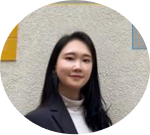
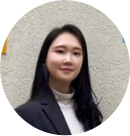
modify: contents

diff --git a/views/information/pledge.html b/views/information/pledge.html
@@ -6,7 +6,7 @@
                 <div class='section-box-03'>
                     <div class='left-box'>
                         <div class='candidate-box'>
-                            <img class='candidate-small' src='image/profile.png' alt='candidateImage'/>
+                            <img class='candidate-small' src='image/information1.png' alt='candidateImage'/>
                         </div>
                         <div class='font-jua'>
                             <p class='candidate-position'>정학생회장 후보</p>
@@ -14,7 +14,7 @@
                             <p class='candidate-small-major'>컴퓨터공학과(17)</p>
                         </div>
                         <div class='sns-box'>
-                            <a href='https://www.instagram.com/seoultech_cice'><img src='image/instagram.png'/></a>
+                            <a href='https://www.instagram.com/haeilhiiii_/'><img src='image/instagram.png'/></a>
                             <a href='https://www.facebook.com/seoultechcice'><img src='image/facebook.png'/></a>
                             <a class='anchor' href='https://www.youtube.com'><img src='image/youtube.png'/></a>
                         </div>
@@ -27,7 +27,7 @@
                     </div>
                     <div class='right-box'>
                         <div class='candidate-box'>
-                            <img class='candidate-small' src='image/profile.png' alt='candidateImage'/>
+                            <img class='candidate-small' src='image/information2.png' alt='candidateImage'/>
                         </div>
                         <div class='font-jua'>
                             <p class='candidate-position'>부학생회장 후보</p>

diff --git a/views/welfare/pledge.html b/views/welfare/pledge.html
@@ -14,7 +14,7 @@
                             <p class='candidate-small-major'>행정학과(19)</p>
                         </div>
                         <div class='sns-box'>
-                            <a href='https://www.instagram.com/36welfare_st/'><img src='image/instagram.png'/></a>
+                            <a href='https://www.instagram.com/37seoultech_for_rest/'><img src='image/instagram.png'/></a>
                             <a href='https://www.facebook.com/36welfare.st'><img src='image/facebook.png'/></a>
                             <a href='https://www.facebook.com/SeoulTechWelfare/'><img src='image/website.png'/></a>
                         </div>
@@ -35,7 +35,7 @@
                             <p class='candidate-small-major'>화공생명공학과(18)</p>
                         </div>
                         <div class='sns-box'>
-                            <a href='https://www.instagram.com/36welfare_st/'><img src='image/instagram.png'/></a>
+                            <a href='https://www.instagram.com/37seoultech_for_rest/'><img src='image/instagram.png'/></a>
                             <a href='https://www.facebook.com/36welfare.st'><img src='image/facebook.png'/></a>
                             <a href='https://www.facebook.com/SeoulTechWelfare/'><img src='image/website.png'/></a>
                         </div>

diff --git a/public/pledge.js b/public/pledge.js
@@ -4,20 +4,20 @@ const slideLen = slideSection.length; // slide length
 const slideWidth = 35; 
 const slideSpeed = 200; 
 const startNum = 0; 
-slideList.style.width = slideWidth * (slideLen + 2) + "rem";
+slideList.style.width = slideWidth * slideLen + "rem";
 let curIndex = startNum; 
 
 
 const slideBtnNext = document.getElementById('slideBtnNext');
 const slideBtnPrev = document.getElementById('slideBtnPrev');
 
+const slideBox = document.getElementsByClassName('slide-box');
+
 const nextSlide = function() {
     if (curIndex < slideLen - 1) {
         slideList.style.transition = slideSpeed + "ms";
         slideList.style.transform = `translate3d(-${slideWidth * (curIndex+1)}rem, 0px, 0px)`;
-
         curIndex++;
-
     }
 }
 
@@ -25,7 +25,6 @@ const prevSlide = function(){
     if (curIndex > 0) {
         slideList.style.transition = slideSpeed + "ms";
         slideList.style.transform = `translate3d(-${slideWidth * (curIndex-1)}rem, 0px, 0px)`;
-
         curIndex--;
     }
 };

diff --git a/views/welfare/pledgeLeft1.html b/views/welfare/pledgeLeft1.html
@@ -1,7 +1,10 @@
 
 <div class='pledge-small-box'>
-    <div class='pledge-title'><p>1) </p></div>
-    <div class='pledge-text'><pre>- PPT 및 보고서 양식 시즌별 제작 배부</pre></div>    
+    <div class='pledge-title'><p>1) PPT 및 보고서 양식 시즌별 제작 배부</p></div>
+    <div class='pledge-text'><pre>- 학교 로고 및 일러스트를 활용한 템플릿 및 보고서 양식 제작
+- 일회성에 그치지 않고 정기적 제작
+- 시즌별 템플릿 공개 선정 등의 방법 활용
+    </pre></div>    
     <div class='pledge-like-box'>
         {% if user.userId and condition.isLiked7 %}
         <img id='welfareLikeBtnLeft-01' class='pledge-like-btn-red' src='image/heartRed.png'>

diff --git a/views/welfare/pledgeLeft3.html b/views/welfare/pledgeLeft3.html
@@ -1,7 +1,7 @@
 
 <div class='pledge-small-box'>
-    <div class='pledge-title'><p>3) </p></div>
-    <div class='pledge-text'><pre>- 서울과학기술대학교 굿즈 KIT 제작 및 배부</pre></div>    
+    <div class='pledge-title'><p>3) 서울과학기술대학교 굿즈 KIT 제작 및 배부</p></div>
+    <div class='pledge-text'><pre>- 기존 다이어리 사업과 더불어 새로운 KIT 제작</pre></div>    
     <div class='pledge-like-box'>
         {% if user.userId and condition.isLiked9 %}
         <img id='welfareLikeBtnLeft-03' class='pledge-like-btn-red' src='image/heartRed.png'>

diff --git a/views/welfare/pledgeLeft2.html b/views/welfare/pledgeLeft2.html
@@ -1,7 +1,7 @@
 
 <div class='pledge-small-box'>
-    <div class='pledge-title'><p>2) </p></div>
-    <div class='pledge-text'><pre>- 분실물 관리 체계 네트워킹을 통한 일원화</pre></div>  
+    <div class='pledge-title'><p>2) 분실물 관리 체계 네트워킹을 통한 일원화</p></div>
+    <div class='pledge-text'><pre>- 교내 분실물 관리 체계 재정비 및 통합</pre></div>  
     <div class='pledge-like-box'>
         {% if user.userId and condition.isLiked8 %}
         <img id='welfareLikeBtnLeft-02' class='pledge-like-btn-red' src='image/heartRed.png'>

diff --git a/views/welfare/pledgeRight1.html b/views/welfare/pledgeRight1.html
@@ -1,7 +1,7 @@
 
 <div class='pledge-small-box'>
-    <div class='pledge-title'><p>4) </p></div>
-    <div class='pledge-text'><pre>- 지역사회와 협력한 대학생 재능 기부 프로젝트</pre></div>     
+    <div class='pledge-title'><p>4) 지역사회와 협력한 대학생 재능 기부 프로젝트</p></div>
+    <div class='pledge-text'><pre>- 상세 내용 없음</pre></div>     
     <div class='pledge-like-box'>
         {% if user.userId and condition.isLiked10 %}
         <img id='welfareLikeBtnRight-01' class='pledge-like-btn-red' src='image/heartRed.png'>

diff --git a/views/welfare/pledgeRight2.html b/views/welfare/pledgeRight2.html
@@ -1,7 +1,7 @@
 
 <div class='pledge-small-box'>
-    <div class='pledge-title'><p>5) </p></div>
-    <div class='pledge-text'><pre>- 더욱 진실된 제5회 S'TED 개최</pre></div>      
+    <div class='pledge-title'><p>5) 더욱 진실된 제5회 S'TED 개최</p></div>
+    <div class='pledge-text'><pre>- 상세 내용 없음</pre></div>      
     <div class='pledge-like-box'>
         {% if user.userId and condition.isLiked11 %}
         <img id='welfareLikeBtnRight-02' class='pledge-like-btn-red' src='image/heartRed.png'>

diff --git a/views/information/pledgeRight2.html b/views/information/pledgeRight2.html
@@ -2,7 +2,7 @@
 <div class='pledge-small-box'>
     <div class='pledge-title'><p>5) 간단한 한끼 자판기 설치</p></div>
     <div class='pledge-text'>
-        <pre>- 상세 내용 없음</pre>
+        <pre>- 미래관, 창학관 한끼 자판기 설치</pre>
     </div>    
     <div class='pledge-like-box'>
         {% if user.userId and condition.isLiked23 %}

diff --git a/views/information/pledgeRight1.html b/views/information/pledgeRight1.html
@@ -2,7 +2,8 @@
 <div class='pledge-small-box'>
     <div class='pledge-title'><p>4) 뻔선뻔후 or 멘토링</p></div>
     <div class='pledge-text'>
-        <pre>- 상세 내용 없음
+        <pre>- 학번을 이용한 뻔선뻔후 제도 도입
+- 멘토링 활동을 통한 학업능력의 향상
         </pre>
     </div>    
     <div class='pledge-like-box'>

diff --git a/public/main.css b/public/main.css
@@ -810,6 +810,7 @@ button:focus{
     height: 70rem;
     margin: 0 auto;
     overflow: hidden;
+    /* overflow-x: scroll; */
 }
 #slide-list{
     display: flex;
@@ -817,6 +818,9 @@ button:focus{
     justify-content: left;
     width: 280rem;
 }
+/* ::-webkit-scrollbar{
+    display: none;
+} */
 .slide-section{
     width: 35rem;
     margin: 0;

diff --git a/views/engineering/pledgeLeft3.html b/views/engineering/pledgeLeft3.html
@@ -1,6 +1,6 @@
 
 <div class='pledge-small-box'>
-    <div class='pledge-title'><p>1-3) 복지</p></div>
+    <div class='pledge-title'><p>2) 복지</p></div>
     <div class='pledge-text'>
     <pre>- 학기별 강의, 시험 진행방식 만족도 조사
 - 공과대학 굿즈 제작
